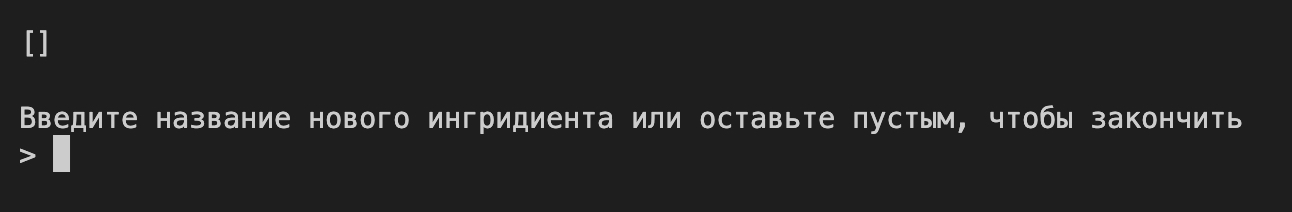
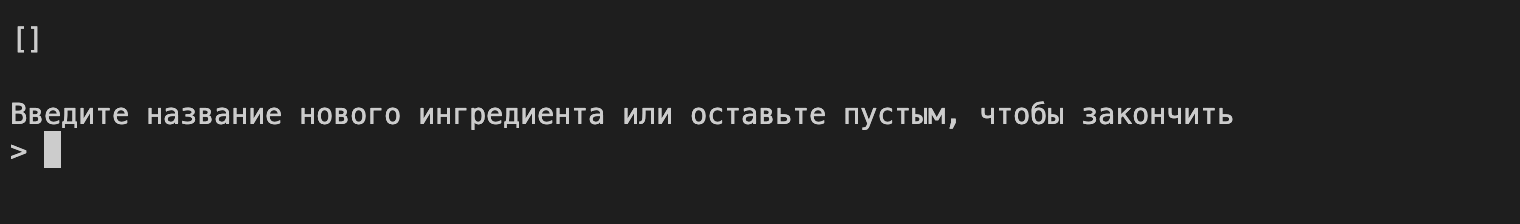
Fix "ingredient" typo

Changed region(s): [[0.0, 0.4528, 0.9598, 0.8208], [0.0, 0.1132, 0.0619, 0.2547]]

diff --git a/burgers-example/View.js b/burgers-example/View.js
@@ -53,14 +53,14 @@ class View extends EventEmitter {
     View.#printBurger(this.#model.getCurrentBurger());
     console.log();
 
-    console.log('Введите название нового ингридиента или оставьте пустым, чтобы закончить');
-    // считываем следующий ингридиент из командной строки
-    const ingridient = readlineSync.question('> ');
+    console.log('Введите название нового ингредиента или оставьте пустым, чтобы закончить');
+    // считываем следующий ингредиент из командной строки
+    const ingredient = readlineSync.question('> ');
 
-    // генерируем событие addIngridient если пользователь хочет добавить ингридиент
+    // генерируем событие addIngredient если пользователь хочет добавить ингредиент
     // и stopMakeBurger если хочет закончить создание бургера
-    if (ingridient) {
-      this.emit('addIngridient', ingridient);
+    if (ingredient) {
+      this.emit('addIngredient', ingredient);
     } else {
       this.emit('stopMakeBurger');
     }

diff --git a/burgers-example/Model.js b/burgers-example/Model.js
@@ -7,10 +7,10 @@ class Model extends EventEmitter {
   #page = 'burgers';
 
   // Массив уже созданных бургеров. Каждый бургер в свою очередь будет представлять
-  // из себя массив ингридиентов. То есть #burgers - это массив массивов.
+  // из себя массив ингредиентов. То есть #burgers - это массив массивов.
   #burgers = [];
 
-  // Бургер, который мы создаём в данный момент. Массив строк-ингридиентов.
+  // Бургер, который мы создаём в данный момент. Массив строк-ингредиентов.
   #currentBurger;
 
   // #page, #burgers, #currentBurger - приватные поля. Чтобы обращаться к ним из
@@ -35,8 +35,8 @@ class Model extends EventEmitter {
     this.emit('update');
   }
 
-  // Добавить новый ингридиент к текущему бургеру
-  addIngridient(indgridient) {
+  // Добавить новый ингредиент к текущему бургеру
+  addIngredient(indgridient) {
     this.#currentBurger.push(indgridient);
     this.emit('update');
   }

diff --git a/burgers-example/Controller.js b/burgers-example/Controller.js
@@ -15,7 +15,7 @@ class Controller {
       // вызываем метод startMakeBurger модели
       () => this.#model.startMakeBurger()
     );
-    this.#view.on('addIngridient', (ingridient) => this.#model.addIngridient(ingridient));
+    this.#view.on('addIngredient', (ingredient) => this.#model.addIngredient(ingredient));
     this.#view.on('stopMakeBurger', () => this.#model.stopMakeBurger());
   }
 

diff --git a/MVC-guide.md b/MVC-guide.md
@@ -35,9 +35,9 @@
 
 ![Создание бургера](readme-assets/example-2.png)
 
-Здесь он может вводить новые ингридиенты, чтобы добавить их в бургер.
+Здесь он может вводить новые ингредиенты, чтобы добавить их в бургер.
 
-![Добавление ингридиентов](readme-assets/example-3.png)
+![Добавление ингредиентов](readme-assets/example-3.png)
 
 Процесс продолжается пока пользователь не нажмёт Enter при пустой строке ввода. Затем он перемещается на начальный экран где видит все созданные ранее бургеры.
 
@@ -59,10 +59,10 @@ class Model {
   #page = 'burgers';
 
   // Массив уже созданных бургеров. Каждый бургер в свою очередь будет представлять
-  // из себя массив ингридиентов. То есть #burgers - это массив массивов.
+  // из себя массив ингредиентов. То есть #burgers - это массив массивов.
   #burgers = [];
 
-  // Бургер, который мы создаём в данный момент. Массив строк-ингридиентов.
+  // Бургер, который мы создаём в данный момент. Массив строк-ингредиентов.
   #currentBurger;
 
   // #page, #burgers, #currentBurger - приватные поля. Чтобы обращаться к ним из
@@ -86,8 +86,8 @@ class Model {
     this.#currentBurger = [];
   }
 
-  // Добавить новый ингридиент к текущему бургеру
-  addIngridient(indgridient) {
+  // Добавить новый ингредиент к текущему бургеру
+  addIngredient(indgridient) {
     this.#currentBurger.push(indgridient);
   }
 
@@ -154,9 +154,9 @@ class View {
     View.#printBurger(this.#model.getCurrentBurger());
     console.log();
 
-    console.log('Введите название нового ингридиента или оставьте пустым, чтобы закончить');
-    // считываем следующий ингридиент из командной строки
-    const ingridient = readlineSync.question('> ');
+    console.log('Введите название нового ингредиента или оставьте пустым, чтобы закончить');
+    // считываем следующий ингредиент из командной строки
+    const ingredient = readlineSync.question('> ');
   }
 
   static #printBurger(burger) {
@@ -174,10 +174,10 @@ module.exports = View;
 Подумаем, какие действия совершает пользователь?
 
 - На стартовом экране нажимает любую клавишу, чтобы перейти к странице создания бургера
-- На экране создания бургера вводит название ингридиента и нажимает Enter
+- На экране создания бургера вводит название ингредиента и нажимает Enter
 - Либо на том же экране нажимает Enter, оставляя строку пустой
 
-Соответственно представление будет генерировать три события: makeBurger, addIngridient и stopMakeBurger.
+Соответственно представление будет генерировать три события: makeBurger, addIngredient и stopMakeBurger.
 
 Чтобы сгенерировать события на стороне представления унаследуем его от класса EventEmitter и вызовем унаследованный от EventEmitter метод emit в момент когда событие произошло.
 
@@ -220,14 +220,14 @@ class View extends EventEmitter {
     View.#printBurger(this.#model.getCurrentBurger());
     console.log();
 
-    console.log('Введите название нового ингридиента или оставьте пустым, чтобы закончить');
-    // считываем следующий ингридиент из командной строки
-    const ingridient = readlineSync.question('> ');
+    console.log('Введите название нового ингредиента или оставьте пустым, чтобы закончить');
+    // считываем следующий ингредиент из командной строки
+    const ingredient = readlineSync.question('> ');
 
-    // генерируем событие addIngridient если пользователь хочет добавить ингридиент
+    // генерируем событие addIngredient если пользователь хочет добавить ингредиент
     // и stopMakeBurger если хочет закончить создание бургера
-    if (ingridient) {
-      this.emit('addIngridient', ingridient);
+    if (ingredient) {
+      this.emit('addIngredient', ingredient);
     } else {
       this.emit('stopMakeBurger');
     }
@@ -259,7 +259,7 @@ class Controller {
       // вызываем метод startMakeBurger модели
       () => this.#model.startMakeBurger()
     );
-    this.#view.on('addIngridient', (ingridient) => this.#model.addIngridient(ingridient));
+    this.#view.on('addIngredient', (ingredient) => this.#model.addIngredient(ingredient));
     this.#view.on('stopMakeBurger', () => this.#model.stopMakeBurger());
   }
 
@@ -292,8 +292,8 @@ class Model extends EventEmitter {
     this.emit('update');
   }
 
-  // Добавить новый ингридиент к текущему бургеру
-  addIngridient(indgridient) {
+  // Добавить новый ингредиент к текущему бургеру
+  addIngredient(indgridient) {
     this.#currentBurger.push(indgridient);
     this.emit('update');
   }
